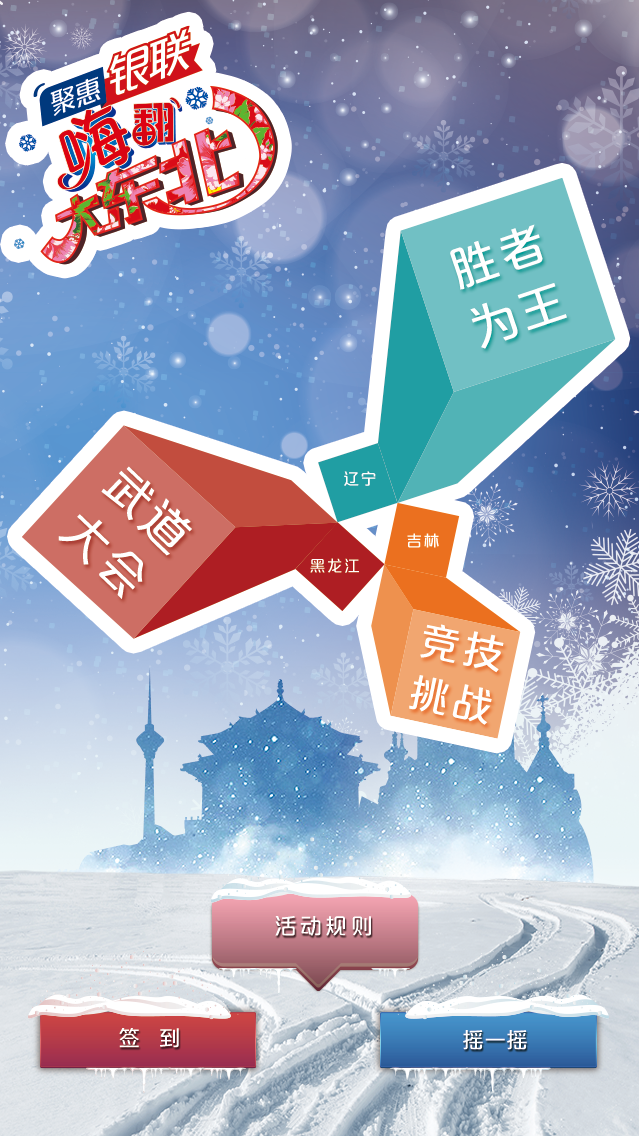
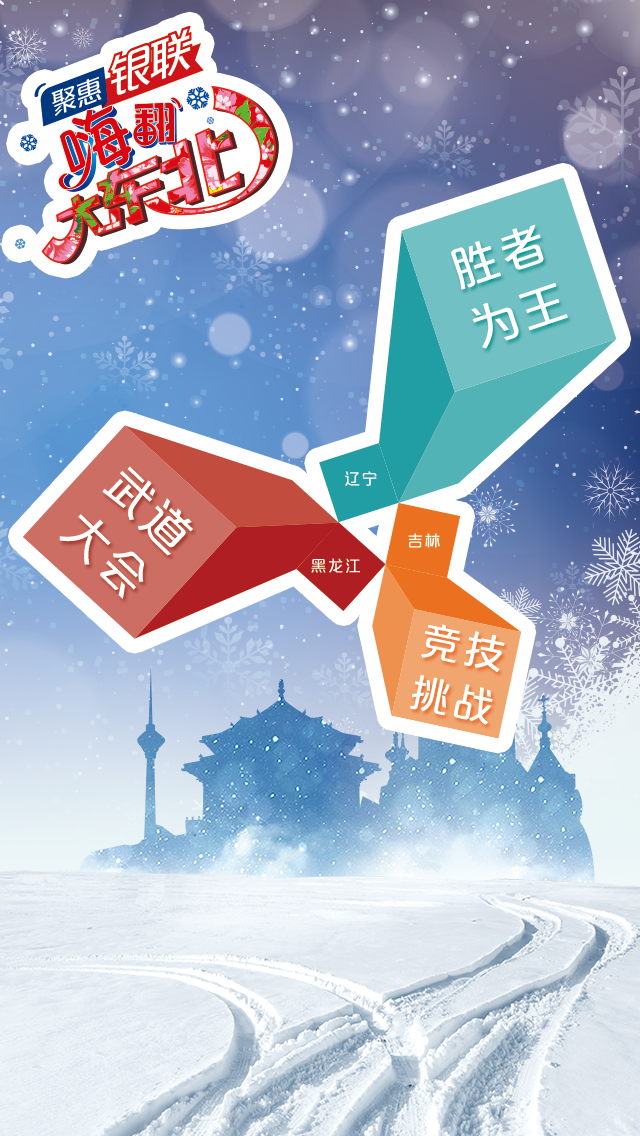
根据新原型稿调整页面

diff --git a/frontend/web/css/style.css b/frontend/web/css/style.css
@@ -3,15 +3,18 @@ html,body{font-family: "Arial","Microsoft YaHei","黑体","宋体",sans-serif;}
 /*活动页面*/
 .bg{width:100%; height:100%;background: url("../images/indexBg.png") no-repeat center;
     background-size:100% 100%; position: relative;}
-.rule{display: block; width:32.8125%;height:5.263158%;  position: absolute;top:78.947368%;left:33%;}
-.sign{display: block; width:34.375%;height:5.263158%;  position: absolute;top:88.596491%;left:6.25%;}
-.shake{display: block; width:34.375%;height:5.263158%;  position: absolute;top:88.596491%;left:59.375%;}
+.rule{display: block; width:33.28125%;height:14.210526%;  position: absolute;top:73.070175%;left:32.65625%;
+    background: url("../images/actrule.png") no-repeat;background-size:100% 100%; }
+.sign{display: block; width:37.03125%;height:12.45614%;  position: absolute;top:83.421053%;left:4.53125%;
+    background: url("../images/sign.png") no-repeat;background-size:100% 100%; }
+.shake{display: block; width:37.1875%;height:12.45614%;  position: absolute;top:83.421053%;left:58.125%;
+    background: url("../images/shake.png") no-repeat;background-size:100% 100%; }
 .hlj{display: block; width:47.65625%;height:21.578947%;  position: absolute;top:36.140351%;left:0;}
 .jl{display: block; width:28.4375%;height:22.192982%;  position: absolute;top:43.859649%;left:55.46875%;}
 .ln{display: block; width:52.34375%;height:29.8245614%;  position: absolute;top:14.210526%;left:47.65625%;}
 .fixBg{position: fixed; width:100%; height:100%;display: none;top:0;left:0;}
 .ruleDetail{background: url("../images/rule.png") no-repeat; background-size:100% 100%; width:95.3125%;
-height:83.333333%; position: absolute; z-index: 10;top:6.140351%; left:2.34375%;}
+    height:83.333333%; position: absolute; z-index: 10;top:6.140351%; left:2.34375%;}
 .ruleDetail a{width:150px; height:150px; float: right; position: absolute; right:0;}
 .ruleDetail .content{height:70%; overflow-y: auto; width:80%;margin:30% auto;}
 .ruleDetail .content h2{color:#d0121b; font-size:13px; line-height: 50px;}
@@ -19,7 +22,7 @@ height:83.333333%; position: absolute; z-index: 10;top:6.140351%; left:2.34375%;
 .fl{ float: left;}
 .fr{ float: right;}
 .pop{background: url("../images/pop.png") no-repeat;background-size:100% 100%; width:92.982456%; height:92%;
-position: absolute;z-index: 10;top:3.421053%;left:2.65625%;}
+    position: absolute;z-index: 10;top:3.421053%;left:2.65625%;}
 .pop a{width:50px; height:50px; float: right; position: absolute; right:0;}
 .pop .title{height:80px;width:100%;text-align: center;}
 .pop .title img{ width:100px;display: block;margin:10px auto;}
@@ -60,7 +63,7 @@ position: absolute;z-index: 10;top:3.421053%;left:2.65625%;}
 .goodsList .goods table tr td p span{color:#ff0000; font-size:20px; margin-right:5px;}
 .goodsList .goods table tr td:nth-child(3) img{ width:10px;}
 .goodsList .goods table tr td a{display: block; width:50px;height:50px;background: url("../images/change.png") no-repeat center;
-background-size:100% 100%;margin:0 auto; }
+    background-size:100% 100%;margin:0 auto; }
 /*商品详情*/
 .detail{width:100%;margin:60px auto 0 auto; padding-bottom: 80px; }
 .detail > img{width:95%;display: block;margin:0 auto;}
@@ -85,7 +88,7 @@ background-size:100% 100%;margin:0 auto; }
 .queryExchange .infoWrite{width:80%; margin:30px auto;  }
 .queryExchange .infoWrite table{ width:100%; height:200px;font-size:13px; }
 .queryExchange .infoWrite table tr td input,.queryExchange .infoWrite table tr td select{ width:100%; border-radius: 3px;
-border:1px solid #ccc; background: #fff; outline: none; height:25px; font-size:13px; text-indent: 5px;}
+    border:1px solid #ccc; background: #fff; outline: none; height:25px; font-size:13px; text-indent: 5px;}
 .confirm{position: absolute;bottom: 0; width:100%; height:50px;line-height: 50px;}
 .confirm a{display: block;width:100%; height:100%; text-align: center; color:#fff; background: #75d2fe; font-size: 14px;letter-spacing: 4px;}
 .record{width: 100%;margin:60px auto 0 auto;}
@@ -95,6 +98,7 @@ border:1px solid #ccc; background: #fff; outline: none; height:25px; font-size:1
 .record .recordList table img{ width:80px;display: block; margin:5px;}
 .record .recordList table span{ color:#ff0000; margin:0 5px;}
 /*商户页面-黑龙江*/
+.btn{display: block; position: absolute;width:22.34375%;height:0.05%;top:32.45614%; left:38.59375%;}
 .hljs{width:100%; height:100%;position: absolute;top:0;left:0; background: url("../images/hlj.png") no-repeat center;
     background-size:100% 100%; }
 .hljs img{width:100%;}

diff --git a/frontend/web/js/main.js b/frontend/web/js/main.js
@@ -5,10 +5,10 @@ $(".rule").click(function () {
     $(".fixBg").show();
 });
 $("a.close").click(function () {
-   $(".fixBg").hide();
+    $(".fixBg").hide();
 });
-$(".hljs a,.lns a,.jls a").click(function () {
-   $(".fixBg").show();
+$(".brand").click(function () {
+    $(".fixBg").show();
 });
 function goBack() {
     window.history.back(-1);

diff --git a/frontend/modules/redeem/controllers/ActivityController.php b/frontend/modules/redeem/controllers/ActivityController.php
@@ -41,7 +41,11 @@ class ActivityController extends BaseController
         $format = [
             'begin_end' => function($m){
                 return '开始-' . date('Y-m-d H:i:s', $m->begin_at) . '  截止-' . date('Y-m-d H:i:s', $m->begin_at);
-            }
+            },
+            'begin_end1' => function($m){
+                return date('Y-m-d', $m->begin_at) . ' - ' . date('Y-m-d', $m->begin_at);
+            },
+
         ];
         $format = array_merge($mdl->attributes(), $format);
         $activities = $mdl->getAll(['zone' => $zone, 'status' => Activity::STATUS_ON], 'list_order asc, id desc', 0, 10, $format);
@@ -65,7 +69,11 @@ class ActivityController extends BaseController
         $format = [
             'begin_end' => function($m){
                 return '开始-' . date('Y-m-d H:i:s', $m->begin_at) . '  截止-' . date('Y-m-d H:i:s', $m->begin_at);
-            }
+            },
+            'begin_end1' => function($m){
+                return date('Y-m-d', $m->begin_at) . ' - ' . date('Y-m-d', $m->begin_at);
+            },
+
         ];
         $format = array_merge($mdl->attributes(), $format);
         $activities = $mdl->getAll(['zone' => $zone, 'status' => Activity::STATUS_ON], 'list_order asc, id desc', 0, 9, $format);
@@ -88,7 +96,10 @@ class ActivityController extends BaseController
         $format = [
             'begin_end' => function($m){
                 return '开始-' . date('Y-m-d H:i:s', $m->begin_at) . '  截止-' . date('Y-m-d H:i:s', $m->begin_at);
-            }
+            },
+            'begin_end1' => function($m){
+                return date('Y-m-d', $m->begin_at) . ' - ' . date('Y-m-d', $m->begin_at);
+            },
         ];
         $format = array_merge($mdl->attributes(), $format);
         $activities = $mdl->getAll(['zone' => $zone, 'status' => Activity::STATUS_ON], 'list_order asc, id desc', 0, 6, $format);

diff --git a/frontend/modules/redeem/views/activity/hlj.php b/frontend/modules/redeem/views/activity/hlj.php
@@ -12,8 +12,9 @@
 </head>
 <body>
 <section class="hljs">
+    <a href="http://game.zuikuh5.com/g/4993.html" target="_blank" class="btn"><img src="/images/hljBtn.png"></a>
     <?php foreach($activities as $k => $activity): ?>
-        <a  class="<?php echo $class_array[$k] ?>">
+        <a  class="<?php echo $class_array[$k] ?> brand">
             <img class="activityDetail" num="<?php echo $k ?>"  src="<?php echo yiiParams('img_host') . $activity['poster'] ?>">
         </a>
     <?php endforeach ?>
@@ -32,9 +33,9 @@
     <div class="pop">
         <a class="close"></a>
         <div class="title">
-            <img src="/images/drfLogo.png"/>
+            <img id="act_img" src="/images/drfLogo.png"/>
             <div class="line"></div>
-            <p>2016.11.16-2017.01.25</p>
+            <p id="begin-end">2016.11.16-2017.01.25</p>
         </div>
         <div class="actInfo">
             <ul>
@@ -73,7 +74,9 @@
             var dom = $(this);
             var num = parseInt(dom.attr('num'));
             var activities = <?php echo json_encode($activities) ?>;
+            $("#act_img").attr('src', '<?php echo yiiParams("img_host") ?>' + activities[num].poster);
             $("#act_day").text(activities[num].begin_end);
+            $("#begin-end").text(activities[num].begin_end1);
             $("#act_aims").text(activities[num].aims);
             $("#act_way").text(activities[num].way);
             $("#act_limitation").text(activities[num].limitation);

diff --git a/frontend/modules/redeem/views/activity/jl.php b/frontend/modules/redeem/views/activity/jl.php
@@ -12,8 +12,9 @@
 </head>
 <body>
 <section class="jls">
+    <a href="http://game.zuikuh5.com/g/5001.html" target="_blank" class="btn"><img src="/images/jlBtn.png"></a>
     <?php foreach($activities as $k => $activity): ?>
-        <a  class="<?php echo $class_array[$k] ?>">
+        <a  class="<?php echo $class_array[$k] ?> brand">
             <img class="activityDetail" num="<?php echo $k ?>"  src="<?php echo yiiParams('img_host') . $activity['poster'] ?>">
         </a>
     <?php endforeach ?>
@@ -28,9 +29,9 @@
     <div class="pop">
         <a class="close"></a>
         <div class="title">
-            <img src="/images/drfLogo.png"/>
+            <img id="act_img" src="/images/drfLogo.png"/>
             <div class="line"></div>
-            <p>2016.11.16-2017.01.25</p>
+            <p id="begin-end">2016.11.16-2017.01.25</p>
         </div>
         <div class="actInfo">
             <ul>
@@ -69,7 +70,9 @@
             var dom = $(this);
             var num = parseInt(dom.attr('num'));
             var activities = <?php echo json_encode($activities) ?>;
+            $("#act_img").attr('src', '<?php echo yiiParams("img_host") ?>' + activities[num].poster);
             $("#act_day").text(activities[num].begin_end);
+            $("#begin-end").text(activities[num].begin_end1)
             $("#act_aims").text(activities[num].aims);
             $("#act_way").text(activities[num].way);
             $("#act_limitation").text(activities[num].limitation);

diff --git a/frontend/modules/redeem/views/activity/ln.php b/frontend/modules/redeem/views/activity/ln.php
@@ -12,8 +12,9 @@
 </head>
 <body>
 <section class="lns">
+    <a href="http://game.zuikuh5.com/g/5002.html" target="_blank" class="btn"><img src="/images/lnBtn.png"></a
     <?php foreach($activities as $k => $activity): ?>
-        <a  class="<?php echo $class_array[$k] ?>">
+        <a  class="<?php echo $class_array[$k] ?> brand">
             <img class="activityDetail" num="<?php echo $k ?>"  src="<?php echo yiiParams('img_host') . $activity['poster'] ?>">
         </a>
     <?php endforeach ?>
@@ -31,9 +32,9 @@
     <div class="pop">
         <a class="close"></a>
         <div class="title">
-            <img src="/images/drfLogo.png"/>
+            <img id="act_img" src="/images/drfLogo.png"/>
             <div class="line"></div>
-            <p>2016.11.16-2017.01.25</p>
+            <p id="begin-end">2016.11.16-2017.01.25</p>
         </div>
         <div class="actInfo">
             <ul>
@@ -72,7 +73,9 @@
             var dom = $(this);
             var num = parseInt(dom.attr('num'));
             var activities = <?php echo json_encode($activities) ?>;
+            $("#act_img").attr('src', '<?php echo yiiParams("img_host") ?>' + activities[num].poster);
             $("#act_day").text(activities[num].begin_end);
+            $("#begin-end").text(activities[num].begin_end1)
             $("#act_aims").text(activities[num].aims);
             $("#act_way").text(activities[num].way);
             $("#act_limitation").text(activities[num].limitation);

diff --git a/frontend/modules/redeem/views/activity/index.php b/frontend/modules/redeem/views/activity/index.php
@@ -22,10 +22,8 @@
     <!--辽宁-->
     <a href="/activity/ln" class="ln"></a>
     <a id="rule" class="rule"></a>
-    <!--签到-->
-    <!--<a href="sign.html" class="sign"></a>-->
-    <!--摇一摇-->
-    <!--<a href="shake.html" class="shake"></a>-->
+    <a class="sign"></a>
+    <a href="http://view.zuikuapp.com/s/na/1665_836440.html" target="_blank" class="shake"></a>
 </div>
 <div class="fixBg">
     <div class="ruleDetail">
